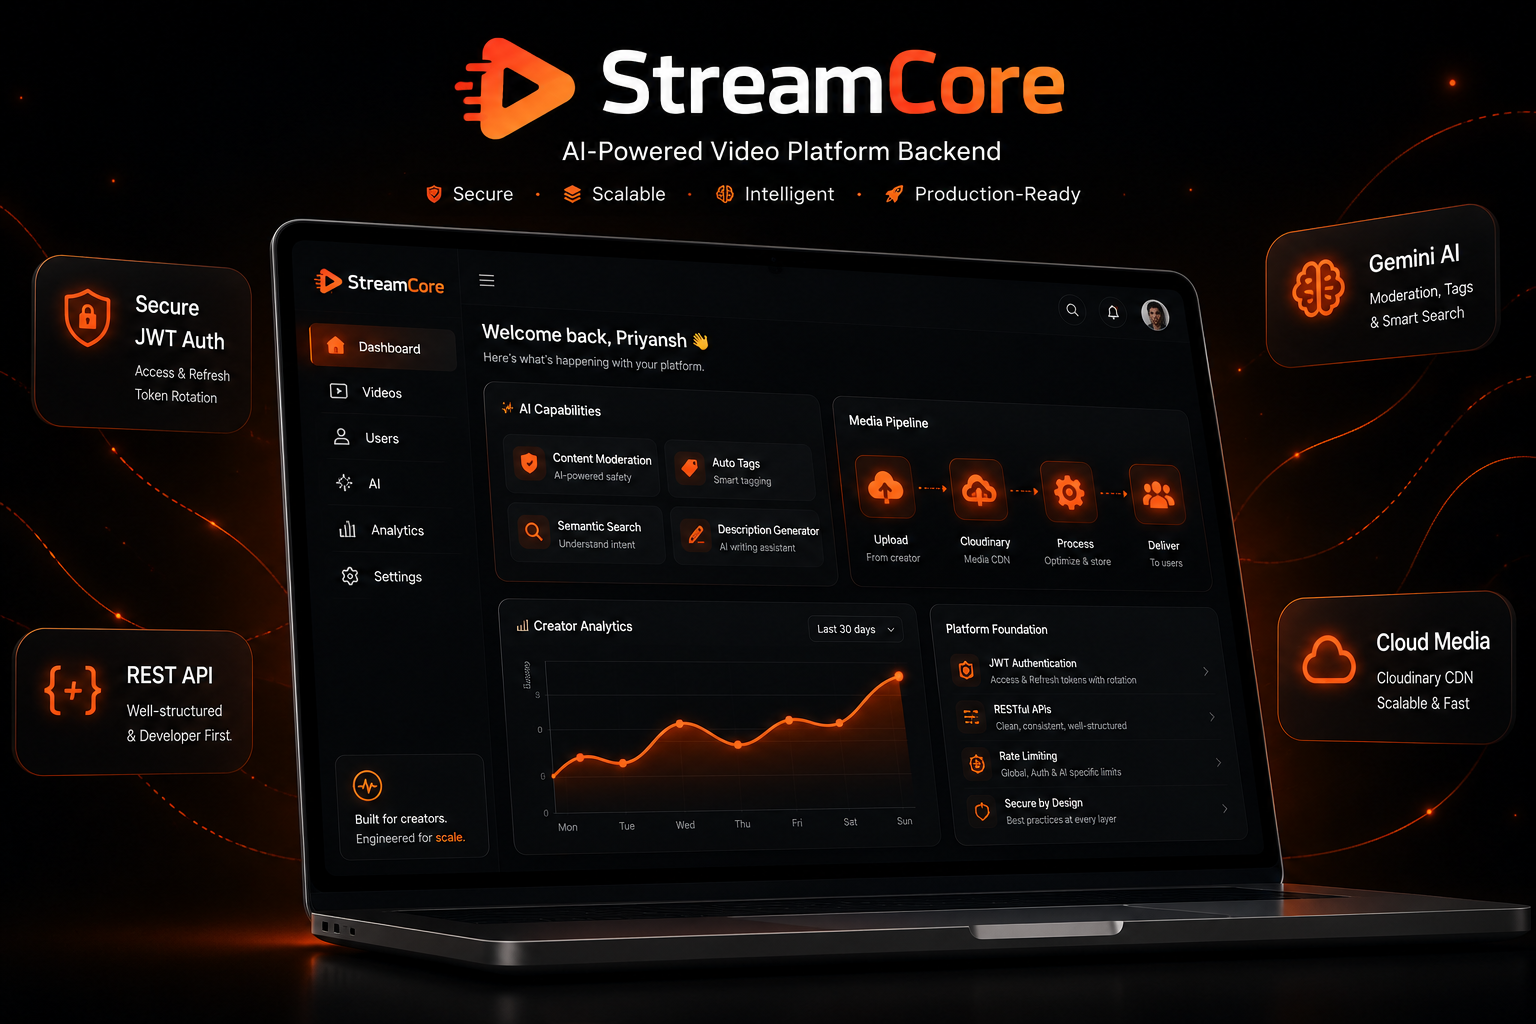
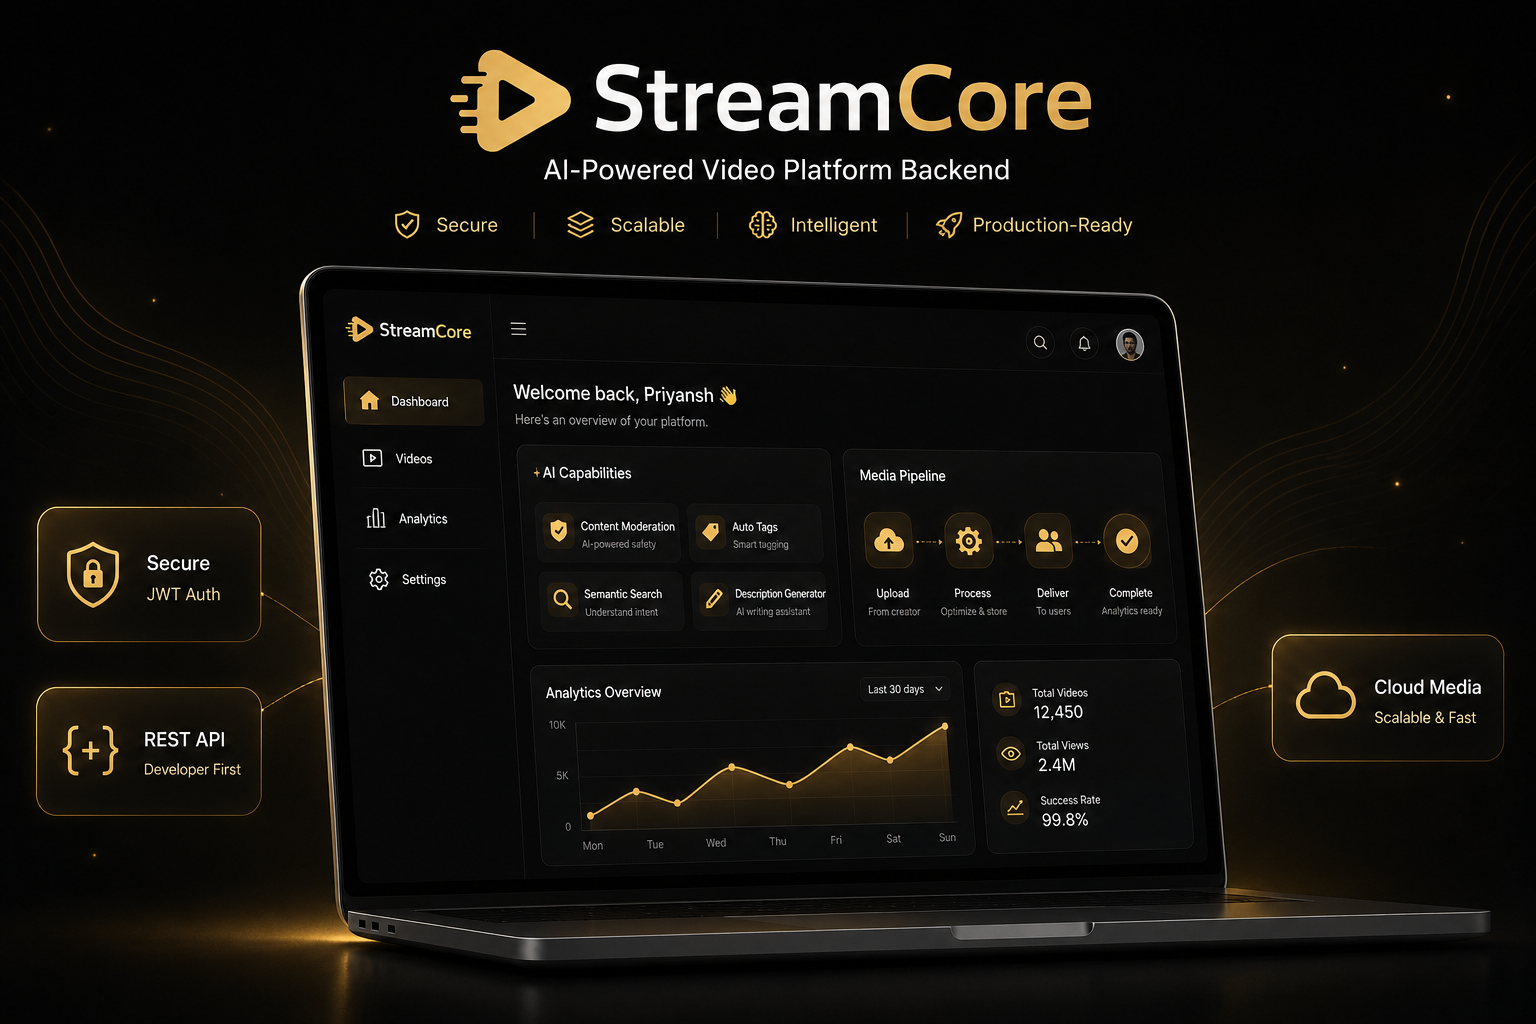
feat: add animated particle effects to cards and a fluid trail cursor effect

diff --git a/css/components.css b/css/components.css
@@ -227,6 +227,10 @@ nav.scrolled {
   border-color: var(--fg);
 }
 
+.theme-btn:active {
+  transform: scale(0.95) !important;
+}
+
 .t-icon { font-size: 13px; }
 
 /* ── SETTINGS GEAR ── */
@@ -347,8 +351,8 @@ nav.scrolled {
 }
 
 .settings-toggle:checked + .settings-switch {
-  background: var(--card-glow);
-  border-color: var(--card-glow);
+  background: #3B82F6;
+  border-color: #3B82F6;
 }
 
 .settings-toggle:checked + .settings-switch::after {
@@ -757,12 +761,12 @@ nav.scrolled {
 /* ── CARD PARTICLES ── */
 .card-particle {
   position: absolute;
-  width: 4px;
-  height: 4px;
+  width: 2px;
+  height: 2px;
   background: var(--card-glow);
   border-radius: 50%;
   pointer-events: none;
-  box-shadow: 0 0 10px var(--card-glow), 0 0 20px var(--card-glow);
+  box-shadow: 0 0 6px var(--card-glow), 0 0 12px var(--card-glow);
   will-change: transform, opacity;
   z-index: 10;
 }

diff --git a/js/card-particles.js b/js/card-particles.js
@@ -26,8 +26,8 @@ export function initCardParticles() {
       /* Check live attribute so toggle works mid-session */
       if (document.documentElement.hasAttribute('data-no-particles')) return;
       spawnInterval = setInterval(() => {
-        for (let i = 0; i < 4; i++) spawnParticle(card);
-      }, 35);
+        for (let i = 0; i < 2; i++) spawnParticle(card);
+      }, 40);
     });
 
     card.addEventListener('mouseleave', () => {
@@ -50,8 +50,8 @@ export function initCardParticles() {
     let spawnLeft, spawnTop;
     let moveX, moveY;
 
-    const spread = 30 + Math.random() * 40;
-    const drift = (Math.random() - 0.5) * 30;
+    const spread = 20 + Math.random() * 25; // 20–45px outward (shorter)
+    const drift = (Math.random() - 0.5) * 15; // less sideways drift
 
     if (p < w) {
       spawnLeft = p; spawnTop = 0;
@@ -85,7 +85,7 @@ export function initCardParticles() {
       y: moveY,
       opacity: 0,
       scale: 0,
-      duration: 1.2 + Math.random() * 0.8,
+      duration: 1.5 + Math.random() * 1.0, // slower, gentler drift
       ease: 'power2.out',
       onComplete: () => {
         if (particle.parentNode) particle.parentNode.removeChild(particle);

diff --git a/css/base.css b/css/base.css
@@ -12,7 +12,7 @@
   --green-bd:  rgba(0, 220, 100, 0.28);
 
   /* Card hover glow — change this one value to recolor particles + border */
-  --card-glow: #3B82F6;
+  --card-glow: #E2E8F0; /* Icy silver for minimal look */
 
   /* Typography */
   --font-sans:    'Inter', system-ui, sans-serif;
@@ -36,7 +36,7 @@
   --border-hv: rgba(12, 12, 11, 0.38);
   --green:     #006E2D;
   --green-bd:  rgba(0, 110, 45, 0.35);
-  --card-glow: #3b82f6;
+  --card-glow: #64748B; /* Slate grey for light mode */
 }
 
 /* ── RESET ── */

diff --git a/js/cursor.js b/js/cursor.js
@@ -19,8 +19,8 @@ export function initCursor() {
   const SIZE       = 50;
   const DAMPENING  = 0.25;
   const TENSION    = 0.97;
-  const MIN_ALPHA  = 0.1;
-  const MAX_ALPHA  = 0.4;
+  const MIN_ALPHA  = 0.05;
+  const MAX_ALPHA  = 0.25;
   const MIN_WIDTH  = 0.9;
   const MAX_WIDTH  = 1.8;
   /* Unpacked hex literals — faster than parseInt in hot path */